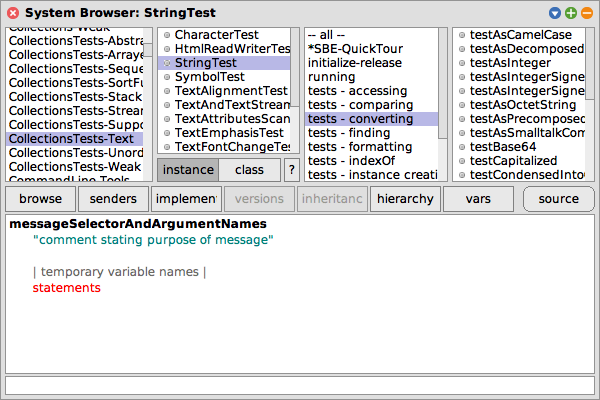
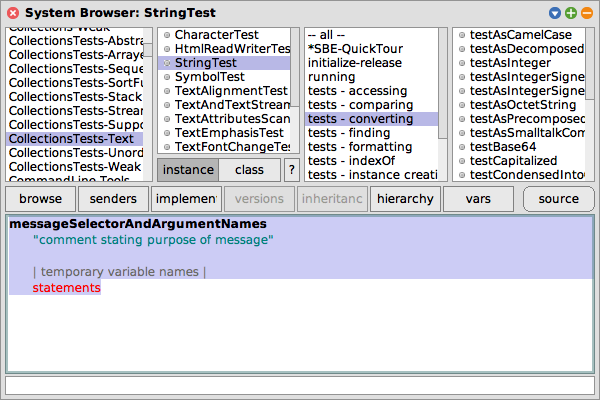
fix preferencebrowser and StringTest-newMethodTempalte

Changed region(s): [[0.0, 0.51, 1.0, 0.96]]

diff --git a/QuickTour/QuickTour.tex b/QuickTour/QuickTour.tex
@@ -198,7 +198,7 @@ In the preference browser, the \menu{general} category contains an option \menu{
 %%  browser := PreferenceBrowser open.
 %%  (browser dependents at: 2) setText: searchText.
 %%  browser searchPreferencesFor: searchText.
-%%  (helper preferenceButtonMorphLabeled: 'swapMouseButtons' in: helper world) highlightOn.
+%%  (helper preferenceButtonMorphLabeled: 'Swap mouse buttons' in: helper world) highlightOn.
 %%]}
 
 \begin{figure}[htb]
@@ -756,8 +756,9 @@ How do we create a new method in \sq?   First, we have to decide which class the
 In this case, the \ct{shout} method that we are testing will go in class \clsind{String}, so the corresponding test will, by convention, go in a class called \clsind{StringTest}.
 
 %%{SBESqueakPicture writeTo: './figures/StringTest-newMethodTemplate.png' frame: #morphs using: [:helper |
-%%  Browser fullOnClass: StringTest category: #'tests - converting'
-%%  "the message template should be highlighted. this can be achieved by clicking on the message category name, which is to be found in the browser's 3rd submorph"
+%%  Browser fullOnClass: StringTest category: #'tests - converting'.
+%%  helper click: helper world firstSubmorph firstSubmorph firstSubmorph.
+%%  helper click: helper world firstSubmorph firstSubmorph firstSubmorph.
 %%]}
 
 
